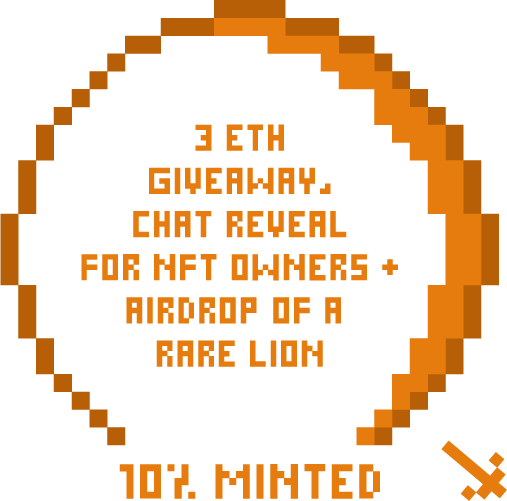
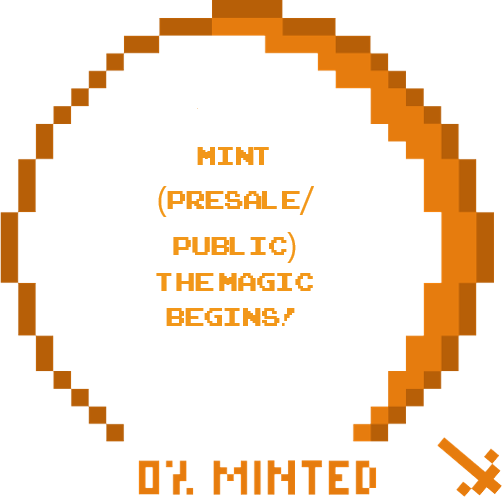
new discord link and images

diff --git a/components/Faq.js b/components/Faq.js
@@ -36,23 +36,22 @@ const Faq = () => {
           <AccordionItem className="mb-5 bg-[#b7ebf1] rounded-lg">
             <AccordionItemHeading>
               <AccordionItemButton className="bg-[#006b8b] rounded-lg text-white text-left p-4">
-                How Can I get an NFT ?
+                How Can I Get a Mana-Maniac?
               </AccordionItemButton>
             </AccordionItemHeading>
             <AccordionItemPanel>
               <p>
-                It will be available for purchase on our website through an
-                initial sale. At the time of purchase, a randomly selected NFT
-                will be minted on the blockchain and delivered to your wallet
-                and OpenSea account. Once the public sale is closed, you can get
-                a Mana-Maniac on the secondary market (on OpenSea).
+              It will be available for purchase on our website through an initial sale. 
+              At the time of purchase, a randomly selected NFT will be minted on the blockchain 
+              and delivered to your wallet and OpenSea account. Once the public sale is closed, 
+              you can get a Mana-Maniac on the secondary market like OpenSea or LooksRare.
               </p>
             </AccordionItemPanel>
           </AccordionItem>
           <AccordionItem className="mb-5 bg-[#b7ebf1] rounded-lg">
             <AccordionItemHeading>
               <AccordionItemButton className="bg-[#006b8b] rounded-lg text-white text-left p-4">
-                How to purshase One ?
+                How to purshase an NFT?
               </AccordionItemButton>
             </AccordionItemHeading>
             <AccordionItemPanel>
@@ -61,7 +60,7 @@ const Faq = () => {
                 Chrome browser and link your Ethereum wallet to it. Ensure you
                 have enough ETH in your wallet to cover the cost of a NFT plus
                 the associated transaction (gas) fees. Approve the transaction
-                on MetaMask and you are all set. The Mana-Maniac will be
+                on MetaMask and you are all set. The Mana-Maniacs will be
                 available to mint on our official website.
               </p>
             </AccordionItemPanel>
@@ -80,11 +79,14 @@ const Faq = () => {
           <AccordionItem className="mb-5 bg-[#b7ebf1] rounded-lg">
             <AccordionItemHeading>
               <AccordionItemButton className="bg-[#006b8b] rounded-lg text-white text-left p-4">
-                How much does it cost to mint an NFT ?
+                How much does it cost to mint an NFT...wen mint?
               </AccordionItemButton>
             </AccordionItemHeading>
             <AccordionItemPanel>
-              <p>Mint Price will be 0.05 ETH + Gas</p>
+              <p>
+                Mint price will be 0.05 ETH + Gas. 0.025 ETH will go to the Doge Pound Shelter charity
+                ....Mint date has not been decided as of yet
+              </p>
             </AccordionItemPanel>
           </AccordionItem>
           <AccordionItem className="mb-5 bg-[#b7ebf1] rounded-lg">
@@ -97,6 +99,20 @@ const Faq = () => {
               <p>
                 Once minted, you&apos;ll just need to login into your OpenSea
                 account to view your NFTs.
+              </p>
+            </AccordionItemPanel>
+          </AccordionItem>
+          <AccordionItem className="mb-5 bg-[#b7ebf1] rounded-lg">
+            <AccordionItemHeading>
+              <AccordionItemButton className="bg-[#006b8b] rounded-lg text-white text-left p-4">
+                What do I get when I purchase a Mana-Maniac?
+              </AccordionItemButton>
+            </AccordionItemHeading>
+            <AccordionItemPanel>
+              <p>
+                Immediately - a wizard PFP & charitable donation to the Doge Pound Shelter /// 
+                Near Future Progression Perks - raffle ticket (up to 20 1ETH winners by the end of the mint when we hit certain milestones) 
+                & 2 free companion NFTs (Archer & Warrior), assuming we hit certain milestones as well
               </p>
             </AccordionItemPanel>
           </AccordionItem>

diff --git a/components/Footer.js b/components/Footer.js
@@ -17,7 +17,7 @@ const Footer = () => {
           </a>  
         </Link> 
 
-        <Link href="https://discord.gg/CBhxQDhV" passHref> 
+        <Link href="https://discord.gg/y2WY68JzEG" passHref> 
           <a target="_blank" rel="noopener noreferrer">
           <Image src={discord} alt="discord_icon" height="40px" width="40px" />
           </a>  

diff --git a/components/Team.js b/components/Team.js
@@ -1,7 +1,7 @@
 import React from 'react'
 import Typewriter from 'typewriter-effect'
 import Image from 'next/image'
-import team1 from '../images/team1.png'
+import team1 from '../images/Priapus_pfp.jpg'
 import team2 from '../images/Lightss_pfp.png'
 import team3 from '../images/Dinozaver959_pfp.png'
 import { motion } from 'framer-motion'

diff --git a/components/Navbar.js b/components/Navbar.js
@@ -43,7 +43,7 @@ const Navbar = () => {
               </a>  
             </Link> 
 
-            <Link href="https://discord.gg/CBhxQDhV" passHref> 
+            <Link href="https://discord.gg/y2WY68JzEG" passHref> 
               <a target="_blank" rel="noopener noreferrer" className="nav-btn">
               Discord
               </a>  
